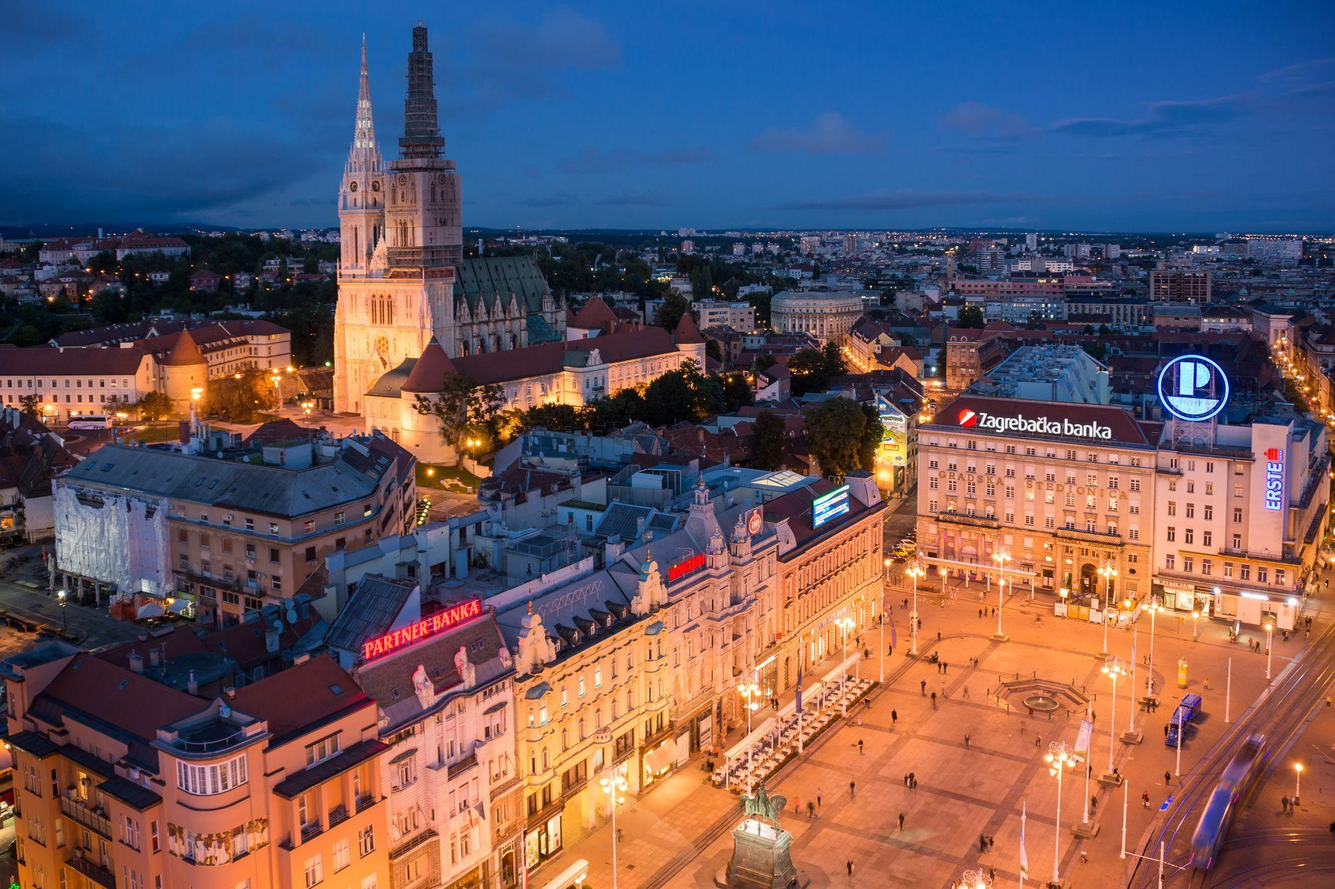
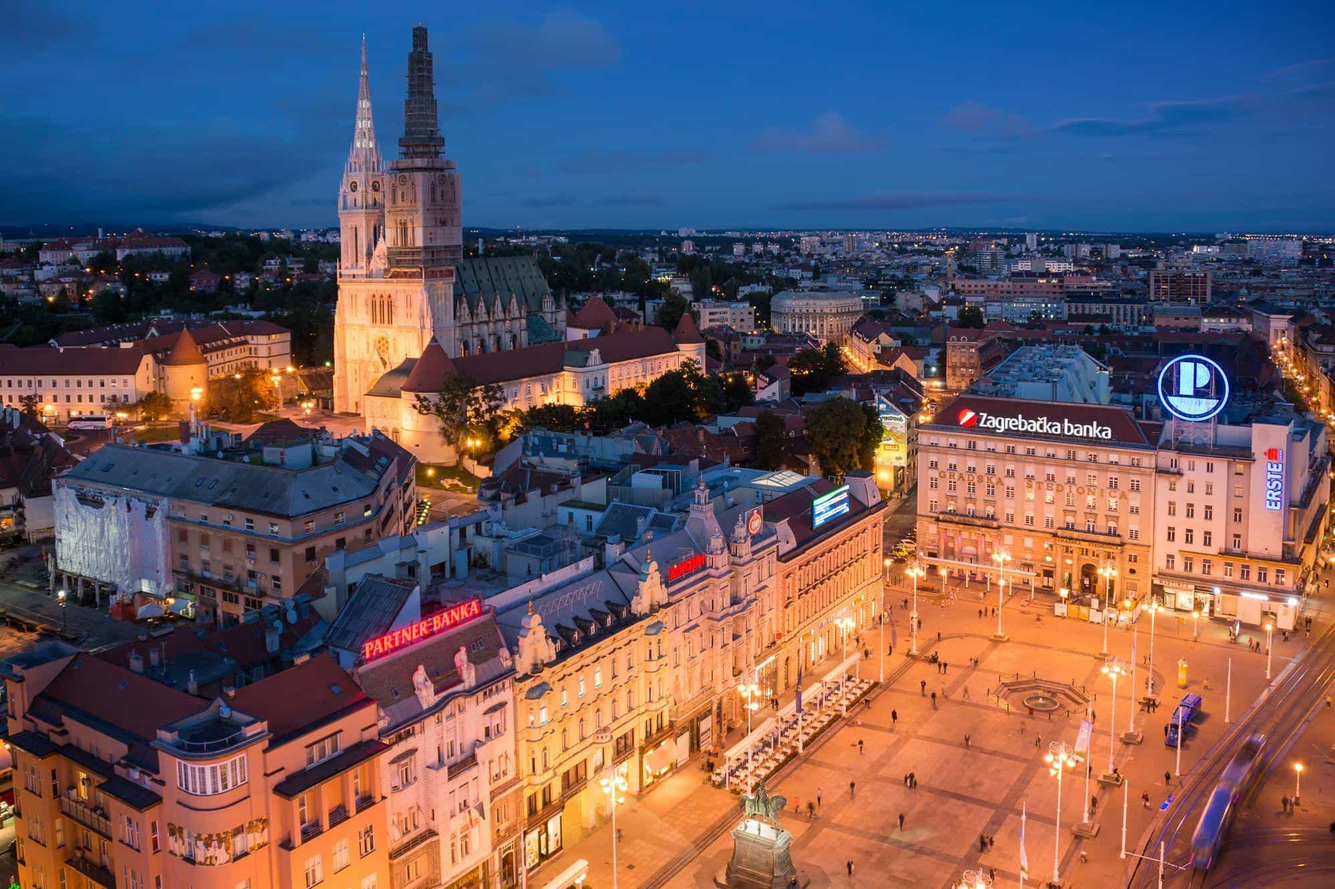
updated visa requirments data and compressed couuntry images

diff --git a/src/pages/ServicesPage/RequirmentsSection/Requirments.jsx b/src/pages/ServicesPage/RequirmentsSection/Requirments.jsx
@@ -1,38 +1,114 @@
-import React, { useState } from "react";
+// import React, { useState } from "react";
 
+// import { Link } from "react-router-dom";
+// const Requirments = ({ country, data }) => {
+//   return (
+//     // <div className=" min-w-full  mx-auto p-4 bg-slate-400 rounded-lg shadow-lg object-fit ">
+
+//     <div className="break-inside-avoid  bg-gradient-to-b from-black to-gray-700 rounded-lg shadow mb-4 mx-3 md:mx-0">
+//       {/* <div class="absolute left-[30px]">
+//         <div class="text-xs inline-flex font-semibold bg-green-100 text-green-600 rounded-full text-center px-3 py-1.5 shadow-sm transform -translate-y-1/2">
+//           {country}
+//         </div>
+//       </div> */}
+//       <div className="h-80 border-b-[4px] border-white   ">
+//         <img
+//           src={data.thumb}
+//           alt=""
+//           className="rounded-t-lg h-[315px] w-full object-cover "
+//         />
+//         <h2 className="shadow-[2px_2px_10px_rgba(0,0,0,.6)]  text-2xl w-40 bg-[#fc432a]  rounded-tl-[4px]  px-6 py-2 text-end rounded-r-[4px]   -top-72 md:-top-20 -left-1    relative font-bold text-white ">
+//           {country}
+//         </h2>
+//         <div className="text-2xl h-1 w-1 bg-[#fc432a]  drop-shadow-2xl shadow-black  text-end   -top-72 md:-top-20 -left-1    relative font-bold text-white ">
+//           <div className="text-2xl rounded-l-full h-2 w-1 bg-[#5f1208]  drop-shadow-2xl shadow-black  text-end  font-bold text-white "></div>
+//         </div>
+//       </div>
+//       <div className="flex justify-end items-center h-10  ">
+//         <img
+//           height={100}
+//           width={100}
+//           src={data.flag}
+//           className="object-cover !m-0 !p-0 object-top rounded-full h-28 w-28 border-[3px] group-hover:scale-105 group-hover:z-30 border-white  right-16 -top-6  transition duration-500 relative"
+//         />
+//       </div>
+//       <div className="p-4 md:px-10 md:pb-5 text-white ">
+//         <div>
+//           <h3 className="font-bold mb-2">Processing Time:</h3>
+//           <p className="mb-4">{data.processing_time}</p>
+
+//           {data.job_details && (
+//             <>
+//               <h3 className="font-bold mb-2">Job Details:</h3>
+//               <ul className="mb-4">
+//                 {Object.entries(data.job_details).map(([job, salary]) => (
+//                   <li key={job}>
+//                     <strong>{job}:</strong> {salary}
+//                   </li>
+//                 ))}
+//               </ul>
+//             </>
+//           )}
+//           <h3 className="font-bold mb-2">Required Documents:</h3>
+//           <ul className="mb-4">
+//             {data.documents.map((doc, index) => (
+//               <li key={index}>{doc}</li>
+//             ))}
+//           </ul>
+//           {data.training_requirement && (
+//             <>
+//               <h3 className="font-bold mb-2">Training Requirement:</h3>
+//               <p className="mb-4">{data.training_requirement}</p>
+//             </>
+//           )}
+//           <h3 className="font-bold mb-2">Return Policy:</h3>
+//           <p className="mb-2">Refundable: {data.return_policy.refundable}</p>
+//           <p>Non-refundable: {data.return_policy.non_refundable}</p>
+//         </div>
+//         <div className="mt-[25px] flex justify-end">
+//           <div>
+//             <Link to="/apply">
+//               <button className="bg-[#d20000] w-40 text-green11 hover:bg-green5 focus:shadow-green7 inline-flex h-[35px] items-center justify-center rounded-[4px] px-[15px] font-medium leading-none focus:shadow-[0_0_0_2px] text-white focus:outline-none text-xl uppercase">
+//                 Apply
+//               </button>
+//             </Link>
+//           </div>
+//         </div>
+//       </div>
+//     </div>
+//   );
+// };
+
+// export default Requirments;
+
+import React from "react";
 import { Link } from "react-router-dom";
+
 const Requirments = ({ country, data }) => {
   return (
-    // <div className=" min-w-full  mx-auto p-4 bg-slate-400 rounded-lg shadow-lg object-fit ">
-
-    <div className="break-inside-avoid  bg-gradient-to-b from-black to-gray-700 rounded-lg shadow mb-4 mx-3 md:mx-0">
-      {/* <div class="absolute left-[30px]">
-        <div class="text-xs inline-flex font-semibold bg-green-100 text-green-600 rounded-full text-center px-3 py-1.5 shadow-sm transform -translate-y-1/2">
-          {country}
-        </div>
-      </div> */}
-      <div className="h-80 border-b-[4px] border-white   ">
+    <div className="break-inside-avoid bg-gradient-to-b from-black to-gray-700 rounded-lg shadow mb-4 mx-3 md:mx-0">
+      <div className="h-80 border-b-[4px] border-white">
         <img
           src={data.thumb}
           alt=""
-          className="rounded-t-lg h-[315px] w-full object-cover "
+          className="rounded-t-lg h-[315px] w-full object-cover"
         />
-        <h2 className="shadow-[2px_2px_10px_rgba(0,0,0,.6)]  text-2xl w-40 bg-[#fc432a]  rounded-tl-[4px]  px-6 py-2 text-end rounded-r-[4px]   -top-72 md:-top-20 -left-1    relative font-bold text-white ">
+        <h2 className="shadow-[2px_2px_10px_rgba(0,0,0,.6)] text-2xl w-40 bg-[#fc432a] rounded-tl-[4px] px-6 py-2 text-end rounded-r-[4px] -top-72 md:-top-20 -left-1 relative font-bold text-white ">
           {country}
         </h2>
-        <div className="text-2xl h-1 w-1 bg-[#fc432a]  drop-shadow-2xl shadow-black  text-end   -top-72 md:-top-20 -left-1    relative font-bold text-white ">
-          <div className="text-2xl rounded-l-full h-2 w-1 bg-[#5f1208]  drop-shadow-2xl shadow-black  text-end  font-bold text-white "></div>
+        <div className="text-2xl h-1 w-1 bg-[#fc432a] drop-shadow-2xl shadow-black text-end -top-72 md:-top-20 -left-1 relative font-bold text-white ">
+          <div className="text-2xl rounded-l-full h-2 w-1 bg-[#5f1208] drop-shadow-2xl shadow-black text-end font-bold text-white "></div>
         </div>
       </div>
-      <div className="flex justify-end items-center h-10  ">
+      <div className="flex justify-end items-center h-10">
         <img
           height={100}
           width={100}
           src={data.flag}
-          className="object-cover !m-0 !p-0 object-top rounded-full h-28 w-28 border-[3px] group-hover:scale-105 group-hover:z-30 border-white  right-16 -top-6  transition duration-500 relative"
+          className="object-cover !m-0 !p-0 object-top rounded-full h-28 w-28 border-[3px] group-hover:scale-105 group-hover:z-30 border-white right-16 -top-6 transition duration-500 relative"
         />
       </div>
-      <div className="p-4 md:px-10 md:pb-5 text-white ">
+      <div className="p-4 md:px-10 md:pb-5 text-white">
         <div>
           <h3 className="font-bold mb-2">Processing Time:</h3>
           <p className="mb-4">{data.processing_time}</p>
@@ -64,6 +140,36 @@ const Requirments = ({ country, data }) => {
           <h3 className="font-bold mb-2">Return Policy:</h3>
           <p className="mb-2">Refundable: {data.return_policy.refundable}</p>
           <p>Non-refundable: {data.return_policy.non_refundable}</p>
+          {data.payment_procedure && (
+            <>
+              <h3 className="font-bold mb-2">Payment Procedure:</h3>
+              <p className="mb-2">
+                Total package cost: {data.payment_procedure.total_package_cost}
+              </p>
+              <p className="mb-2">
+                Advance: {data.payment_procedure.three_step_payment.advance}
+              </p>
+              <p className="mb-2">
+                After Permit:{" "}
+                {data.payment_procedure.three_step_payment.after_permit}
+              </p>
+              {data.payment_procedure.after_visa && (
+                <p className="mb-2">
+                  After Visa:{" "}
+                  {data.payment_procedure.three_step_payment.after_visa}
+                </p>
+              )}
+            </>
+          )}
+          {data.payment_procedure && data.payment_procedure.from_bangladesh && (
+            <p className="mb-2">{data.payment_procedure.from_bangladesh}</p>
+          )}
+          <p className="mb-2">{data.processing_time_additional_info}</p>
+          <p className="mb-2">{data.submission_slip_info}</p>
+          <p>
+            Refundable amount: {data.return_policy.refundable} | Nonrefundable
+            amount: {data.return_policy.non_refundable}
+          </p>
         </div>
         <div className="mt-[25px] flex justify-end">
           <div>

diff --git a/src/pages/ServicesPage/RequirmentsSection/VisaRequirmentSection.jsx b/src/pages/ServicesPage/RequirmentsSection/VisaRequirmentSection.jsx
@@ -9,8 +9,8 @@ import romania from "../../../../public/content/flags/romania.png";
 
 import croatiaimg from "../../../assets/country/croatia.jpg";
 import lithuaniaimg from "../../../assets/country/lithuania.jpg";
-import romanianimg from "../../../assets/country/Romanian.jpg";
-import serbiaimg from "../../../assets/country/Serbia.jpg";
+import romanianimg from "../../../assets/country/romanian.jpg";
+import serbiaimg from "../../../assets/country/serbia.jpg";
 const VisaRequirmentSection = () => {
   const countriesData = {
     Lithuania: {
@@ -81,12 +81,27 @@ const VisaRequirmentSection = () => {
       },
       documents: ["Passport copy", "Police clearance", "CV", "Work video"],
       training_requirement: "Must be trained enough",
+      payment_procedure: {
+        total_package_cost:
+          "9,00,000/- (Embassy fees, Insurance, Air fare & authorization cost included)",
+        three_step_payment: {
+          advance: "80,000 Taka",
+          after_permit: "1,00,000 Taka",
+          after_visa: "Rest Amount",
+        },
+        from_bangladesh: "India travel cost will be excluded",
+      },
+      processing_time_additional_info:
+        "It will take 6 months to issue the work permit depending on the situation. Then after visa application, it will take 4-6 months to get the appointment. After getting the appointment, candidate have to apply for Indian visa as early as possible. In total we will take 12 months for the whole process.",
+      submission_slip_info:
+        "No Submission Slip will Be Provided. Work permit copy will be provided. Embassy Submission Slip will be provided.",
       return_policy: {
-        refundable: "1 lac taka",
-        non_refundable: "50,000 taka",
+        refundable: "50,000/-",
+        non_refundable: "1,30,000/- (Embassy fees, lawyer fees and others)",
       },
     },
   };
+
   return (
     <div className="py-10 container mx-auto ">
       <SectionIntro
